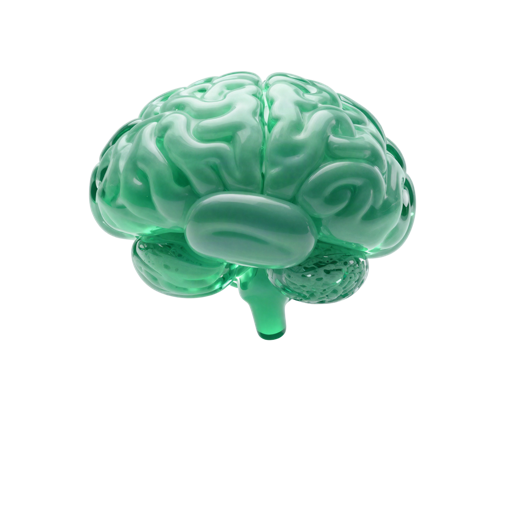
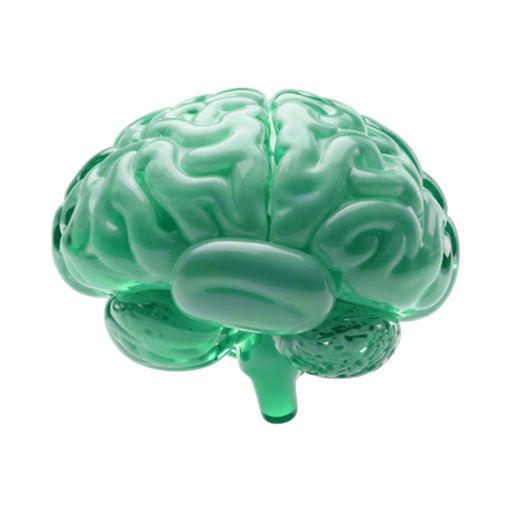
Vycentrovany mozek, ikony temat v ukazkach a srovnana vyzva
Tri drobnosti, ktere Karel nasel okem.

MOZEK NEBYL VE STREDU
Merenim potvrzeno: kresba sedela o 9,9 % vysky nad stredem obrazku,
zatimco vsechny ostatni ikony jsou do 6,7 % a vetsina do 3 %. Navic byla
ze vsech nejmensi - 64 x 53 % plochy proti rodinnym 66-86 x 67-82 %.
Object-contain centruje podle obrazku, ne podle kresby, takze se to
projevilo primo na dlazdici.

Kresba je nove vycentrovana (posun 0,0 %) a zvetsena na 80 x 66 %, cimz
sedi do rodiny. Puvodni soubor je v historii, kdyby bylo potreba zpet.

IKONY TEMAT V UKAZKACH MATERIALU
Karty v uvodu mely obecny symbol podle typu souboru (dokument, tabulka,
kod). Nove nesou skleneenou ikonu tematu, stejnou jako dlazdice v bance -
ukazka tim rovnou rika, odkud material je. Kde ikona tematu neexistuje,
zustava puvodni symbol.

Pouzity existujici ToolGlassIcon a hasToolGlassIcon z BankBrowseru, nic
noveho se nepsalo.

VYZVA "CHYBI TU TVUJ PREDMET" VYCNIVALA
Mela 169 px proti 120-142 u ostatnich dlazdic v mrizce. Slo o dva bloky
navic: samostatny radek s e-mailem a vetsi ikonu (56 px).

E-mail je ted soucasti vety a ikona ma 44 px jako jinde. Vysledek 144 px,
tedy 2 px nad nejvyssi sousedni dlazdici - okem nerozeznatelne.

Mrizka si musela nechat items-start: bez nej by rozbaleni jedne dlazdice
predmetu natahlo cely radek.

OVERENO
tsc, 96 testu a produkcni build prosly. Zmery po oprave sedi.

diff --git a/src/components/CrossSubject.tsx b/src/components/CrossSubject.tsx
@@ -81,18 +81,23 @@ export function CrossSubject({ items = [] }: { items?: BankItem[] }) {
               className="povrch group flex w-full flex-col rounded-karta border border-dashed border-black/10 p-5 transition hover:-translate-y-0.5 dark:border-white/15"
             >
               <span className="flex items-center gap-3">
-                <span className="flex h-14 w-14 shrink-0 items-center justify-center rounded-karta bg-black/[0.04] text-zinc-600 dark:bg-white/5 dark:text-zinc-400">
-                  <Plus className="h-6 w-6" />
+                <span className="flex h-11 w-11 shrink-0 items-center justify-center rounded-ovladac bg-black/[0.04] text-zinc-600 dark:bg-white/5 dark:text-zinc-400">
+                  <Plus className="h-5 w-5" />
                 </span>
                 <span className="font-display text-lg font-semibold tracking-podnadpis text-zinc-700 dark:text-zinc-200">
                   {c.inviteTitle}
                 </span>
               </span>
-              <span className="mt-3 flex-1 text-sm leading-relaxed text-zinc-600 dark:text-zinc-400">
-                {c.inviteText}
-              </span>
-              <span className="mt-4 inline-flex items-center gap-1.5 text-sm font-semibold text-zinc-600 transition group-hover:gap-2.5 group-hover:text-accent-700 dark:text-accent-400 dark:text-zinc-300 dark:group-hover:text-accent-300">
-                {SITE.email} <ArrowRight className="h-4 w-4" />
+              {/* E-mail je součástí věty, ne samostatný řádek pod ní. Jako dva
+                  bloky byla tahle dlaždice o 27 px vyšší než ostatní v mřížce
+                  a v řádku vyčnívala; `items-start` na mřížce zůstat musí,
+                  protože dlaždice předmětu se rozbaluje. */}
+              <span className="mt-3 text-sm leading-relaxed text-zinc-600 dark:text-zinc-400">
+                {c.inviteText}{" "}
+                <span className="inline-flex items-center gap-1 font-semibold text-zinc-700 transition group-hover:gap-1.5 group-hover:text-accent-700 dark:text-zinc-300 dark:group-hover:text-accent-300">
+                  {SITE.email}
+                  <ArrowRight className="h-3.5 w-3.5" />
+                </span>
               </span>
             </a>
           </Reveal>

diff --git a/src/components/HeroPreview.tsx b/src/components/HeroPreview.tsx
@@ -5,6 +5,7 @@ import { BarChart3, Database, Files, FileCode2, FileSpreadsheet, FileText, Image
 import { useLang } from "@/lib/i18n";
 import { toolLabel } from "@/lib/bankLabels";
 import { pickHeroHighlights } from "@/lib/heroPick";
+import { ToolGlassIcon, hasToolGlassIcon } from "@/components/ToolGlassIcon";
 import type { BankItem } from "@/lib/materials";
 
 /**
@@ -90,9 +91,18 @@ export function HeroPreview({ pool }: { pool: BankItem[] }) {
             >
               {/* V klidu šedý, po najetí na kartu se rozsvítí – stejně jako
                   značky zdrojů u článků níž. Ikona zůstává táž, mění se barva. */}
-              <span className="flex h-11 w-11 shrink-0 items-center justify-center rounded-ovladac bg-black/[0.04] transition duration-300 group-hover/karta:bg-accent-500/15 dark:bg-white/5 dark:group-hover/karta:bg-accent-500/20">
-                <Icon className="h-5 w-5 text-zinc-600 transition duration-300 group-hover/karta:text-accent-700 dark:text-accent-400 dark:text-zinc-400 dark:group-hover/karta:text-accent-300" />
-              </span>
+              {/* Skleněná ikona tématu, stejná jako na dlaždicích v bance – ukázka
+                  tak rovnou říká, odkud materiál je. Kde ikona tématu neexistuje,
+                  zůstává původní symbol podle typu souboru. */}
+              {hasToolGlassIcon(it.tool) ? (
+                <span className="flex h-11 w-11 shrink-0 items-center justify-center">
+                  <ToolGlassIcon tool={it.tool} className="h-full w-full object-contain" />
+                </span>
+              ) : (
+                <span className="flex h-11 w-11 shrink-0 items-center justify-center rounded-ovladac bg-black/[0.04] transition duration-300 group-hover/karta:bg-accent-500/15 dark:bg-white/5 dark:group-hover/karta:bg-accent-500/20">
+                  <Icon className="h-5 w-5 text-zinc-600 transition duration-300 group-hover/karta:text-accent-700 dark:text-accent-400 dark:text-zinc-400 dark:group-hover/karta:text-accent-300" />
+                </span>
+              )}
 
               <span className="min-w-0 flex-1">
                 <span className="block truncate text-sm font-semibold">
